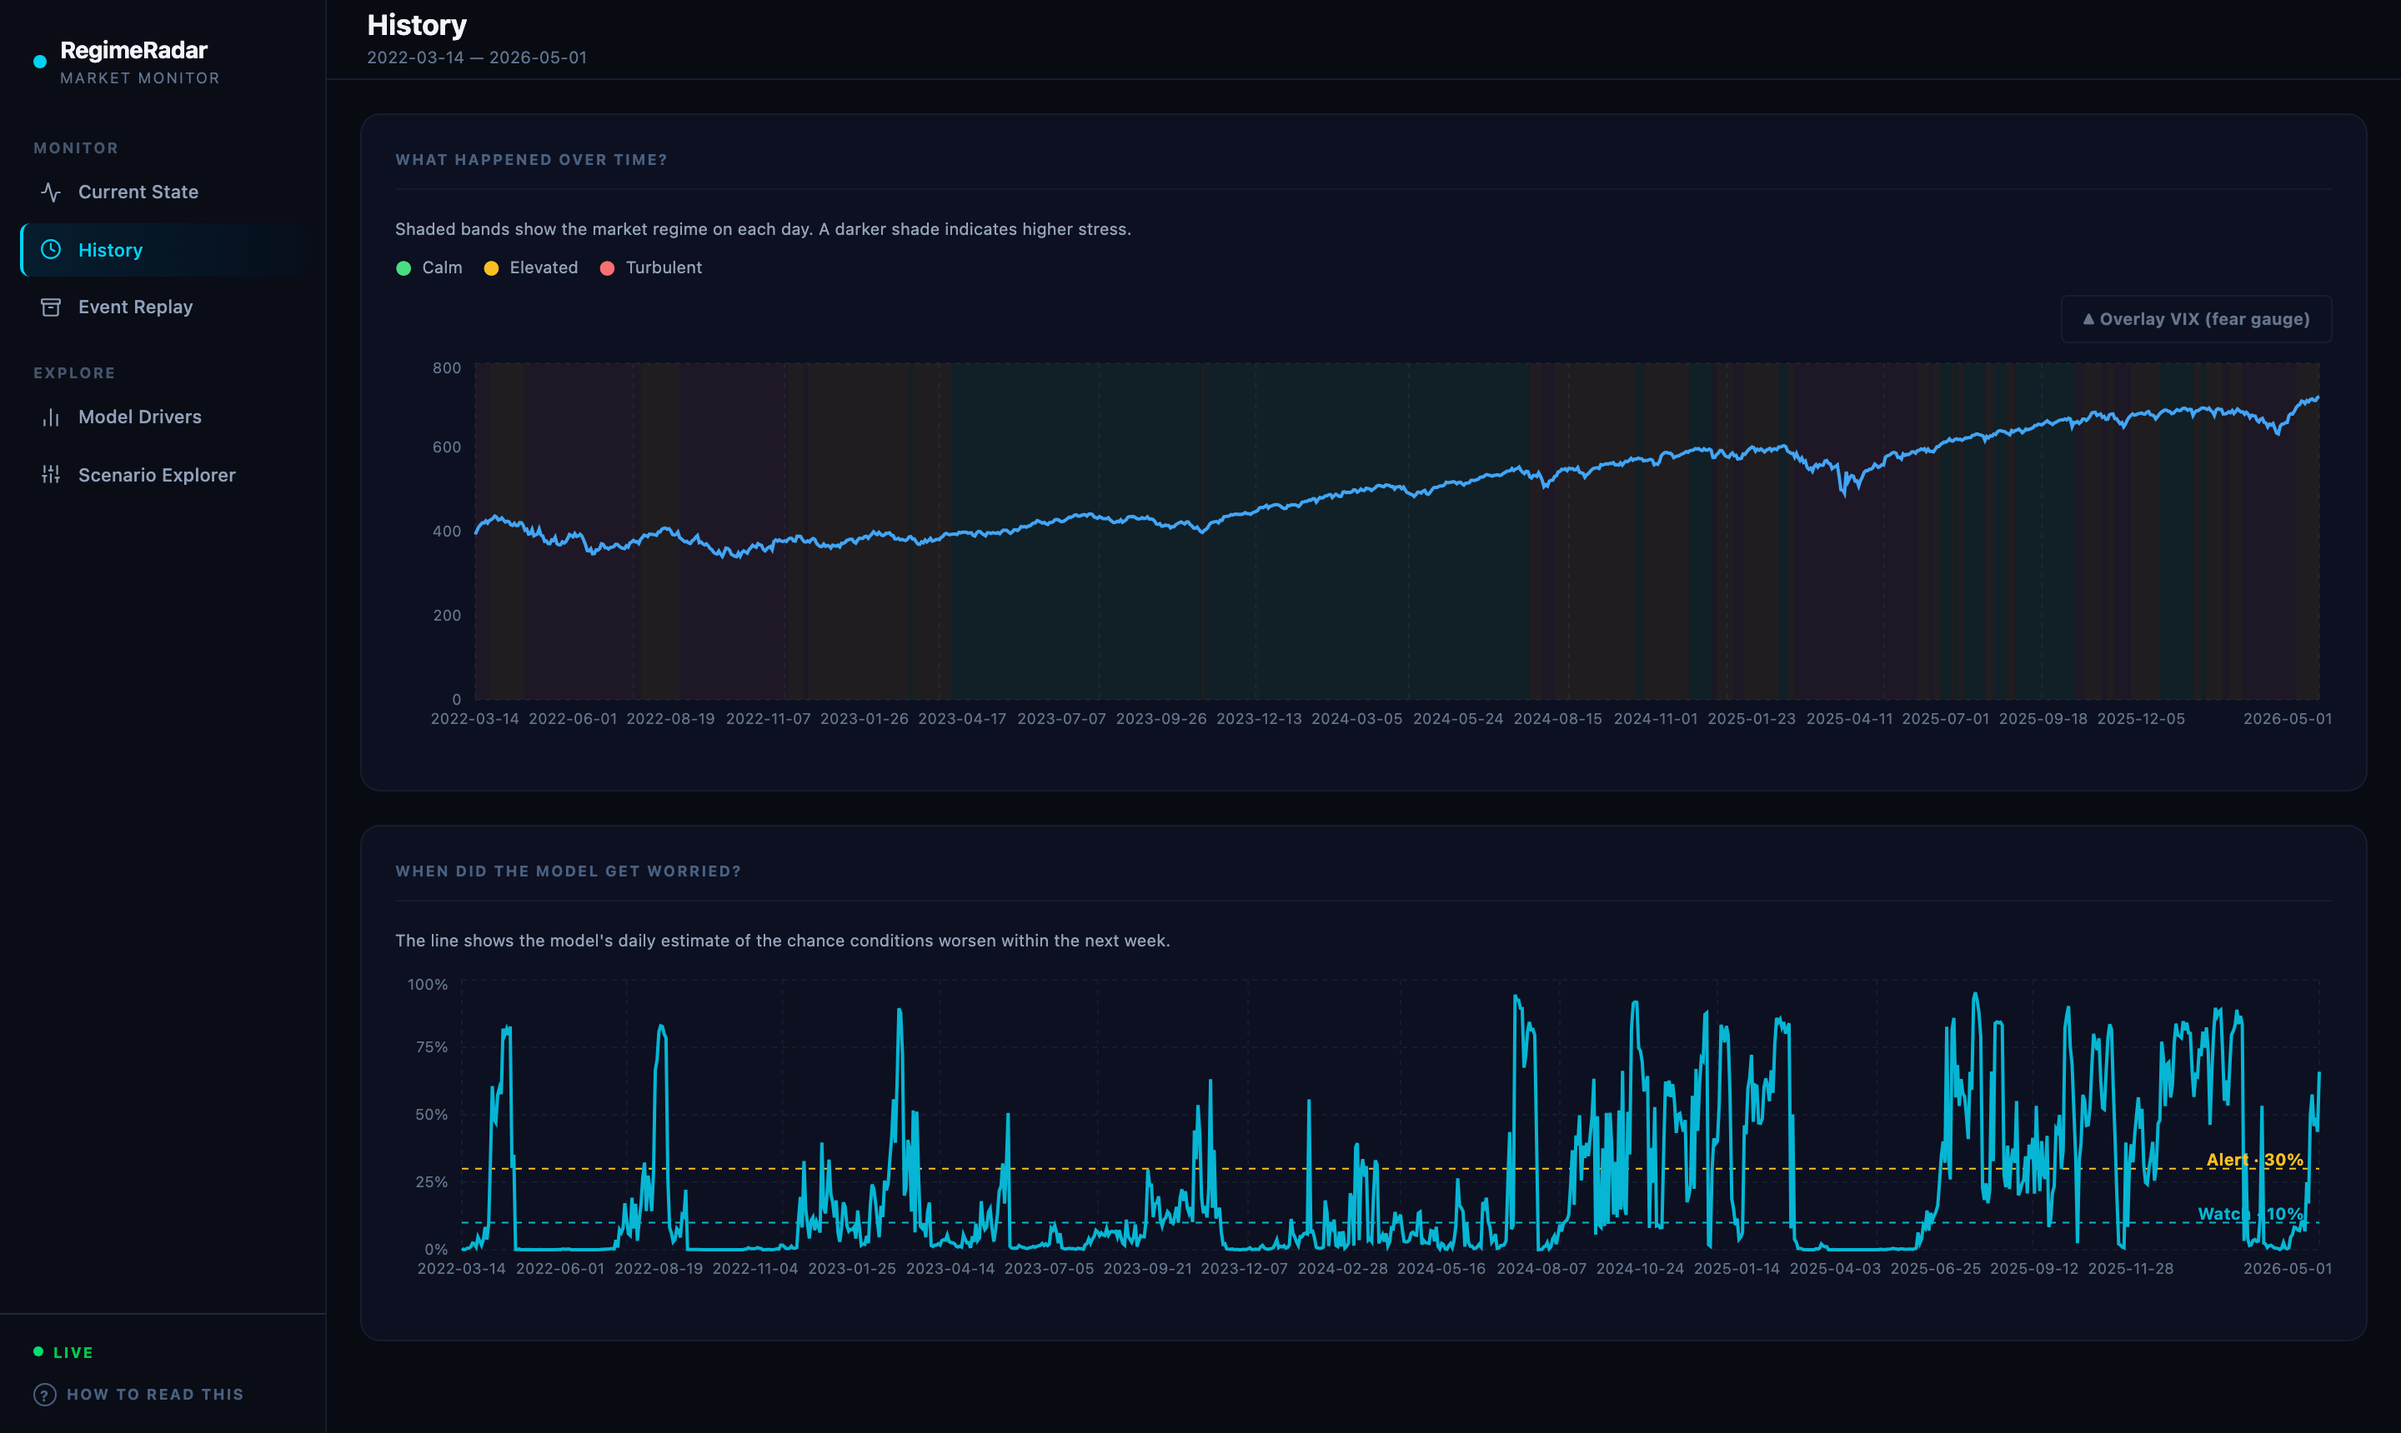
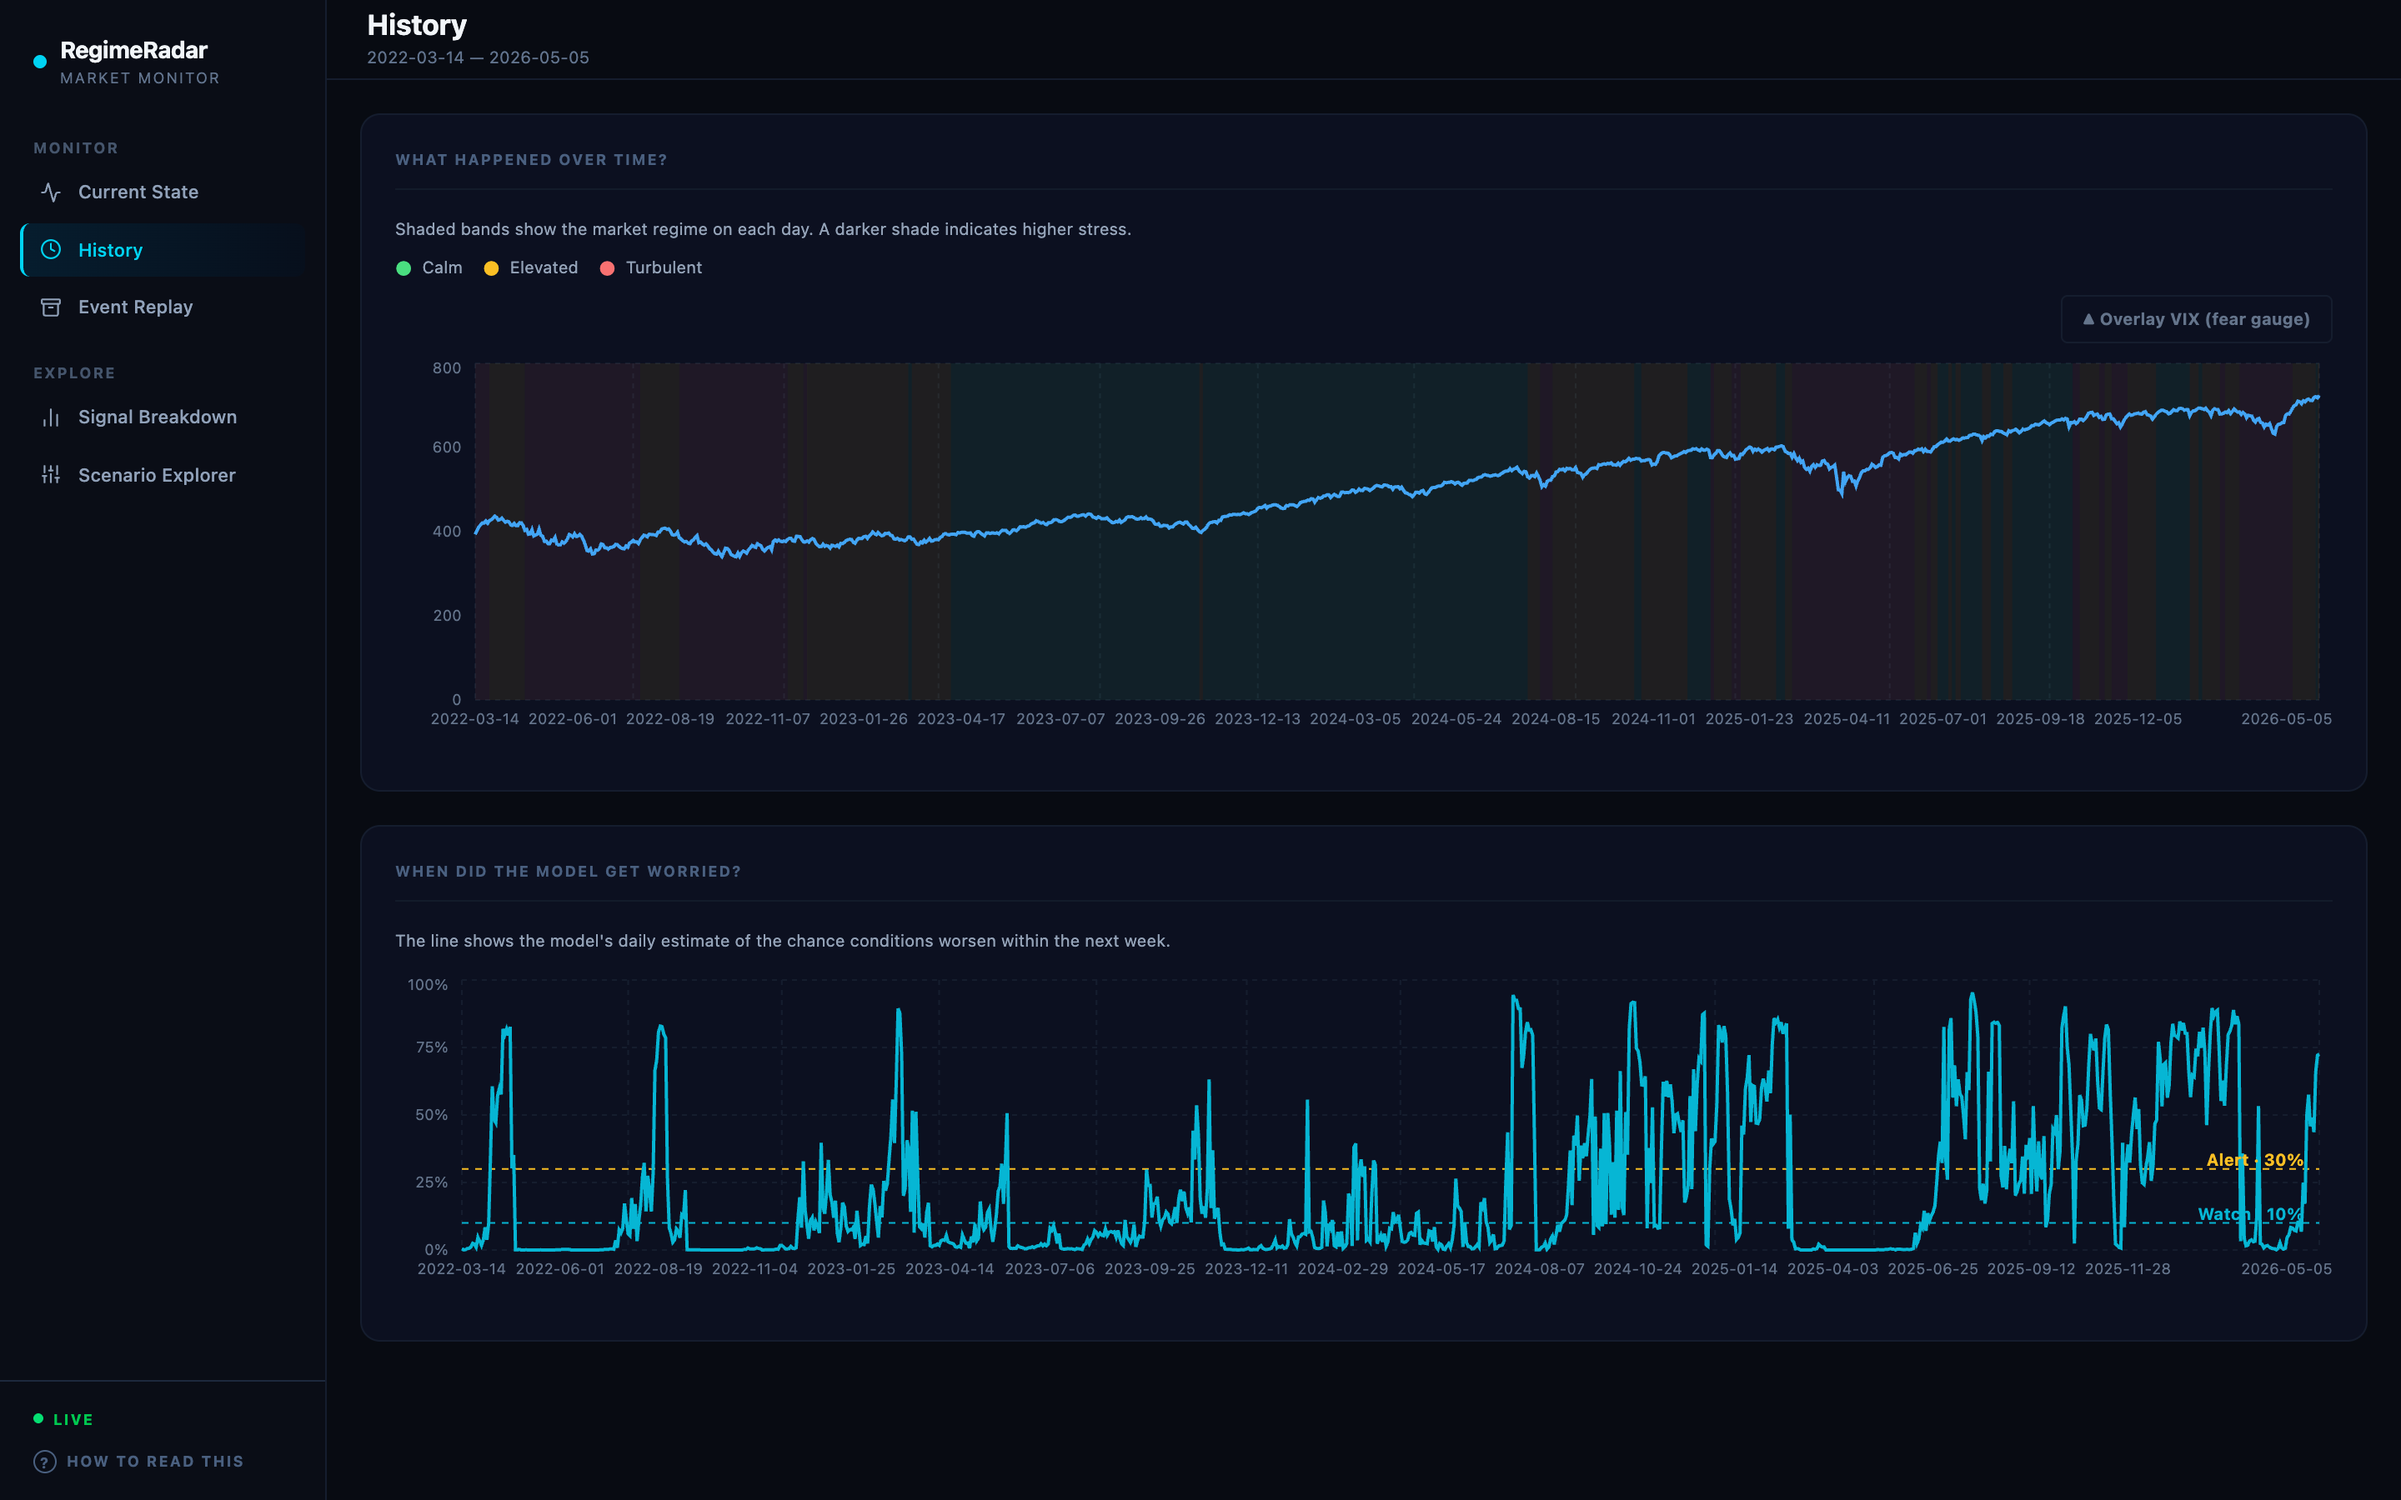
docs: refresh README and screenshots for Scenario Explorer driver cards + Signal Breakdown rename
- Rename 'Model Drivers' → 'Signal Breakdown' throughout README
- Update Scenario Explorer section: driver cards, RAISES/LOWERS RISK badges, empty state, changed-input strip
- Update product overview table and page descriptions
- Refresh all 5 screenshots at 2x resolution (1440×900)

diff --git a/README.md b/README.md
@@ -13,7 +13,7 @@ RegimeRadar ingests daily SPY, VIX, and FRED Economic Market Volatility data, en
 1. **Regime classifier** — labels current conditions as Calm / Elevated / Turbulent
 2. **Transition-risk model** — estimates the probability that conditions worsen within the next 5 trading days
 
-Results are served by a FastAPI backend and visualized in a React/TypeScript dashboard with five pages: Current State, History, Event Replay, Model Drivers, and Scenario Explorer.
+Results are served by a FastAPI backend and visualized in a React/TypeScript dashboard with five pages: Current State, History, Event Replay, Signal Breakdown, and Scenario Explorer.
 
 ---
 
@@ -43,8 +43,8 @@ Finnhub is optional and only affects the live price-card overlay on the Current 
 | **Current State** | Live regime, transition risk gauge, probability distribution across all three states, key risk drivers, 30-day mini chart |
 | **History** | Day-by-day SPY regime timeline with color-coded market-state bands and a daily transition risk chart; optional VIX overlay |
 | **Event Replay** | Walk the model through named historical events (2020 COVID crash, 2022 rate shock, etc.) |
-| **Model Drivers** | Narrative-first layout: plain-English case brief explaining today's reading, push/pull panel (today's top drivers vs. global importance), forward-looking risk conditions, and a collapsible reliability/threshold tradeoff table |
-| **Scenario Explorer** | Six named presets (Calm Recovery → Crisis Peak) plus manual sliders across 6 features. Each scenario shows a probability tripod (Calm / Elevated / Turbulent baseline vs. scenario), a verdict badge, and driver attribution |
+| **Signal Breakdown** | Narrative-first layout: plain-English case brief explaining today's reading, push/pull panel (today's top drivers vs. global importance), forward-looking risk conditions, and a collapsible reliability/threshold tradeoff table |
+| **Scenario Explorer** | Six named presets (Calm Recovery → Crisis Peak) plus manual sliders across 6 features. Each scenario shows a verdict badge, a probability tripod (Calm / Elevated / Turbulent baseline vs. scenario with animated deltas), and a driver-cards panel showing which inputs are raising or lowering risk — with contextual interpretation for each driver |
 
 ---
 
@@ -60,10 +60,10 @@ Finnhub is optional and only affects the live price-card overlay on the Current 
 *Event Replay — COVID-19 2020: warning lead time, peak transition risk, and alert-day count.*
 
 ![Scenario Explorer](docs/screenshots/scenario-explorer.png)
-*Scenario Explorer — Crisis Peak preset: "Turbulent" verdict badge, probability tripod showing 62% turbulent-dominant, and regime-history tags on the driver panel.*
+*Scenario Explorer — Crisis Peak preset: "Turbulent" verdict, probability tripod at 98% turbulent, and driver cards explaining what's raising risk (VIX level, recent high-stress days) with plain-English interpretation per signal.*
 
-![Model Drivers](docs/screenshots/model-drivers.png)
-*Model Drivers — narrative case brief, push/pull panel, global importance bars, and forward-looking risk conditions.*
+![Signal Breakdown](docs/screenshots/model-drivers.png)
+*Signal Breakdown — narrative case brief, push/pull panel (what's pushing risk higher vs. holding it in check), global importance bars, and forward-looking risk conditions.*
 
 ---
 
@@ -203,7 +203,7 @@ Threshold sensitivity (from OOF evaluation):
 | 0.20 | 9% | 5% | 23.6 days |
 | 0.30 | 0.7% | 0.3% | 21.2 days |
 
-The dashboard default displays the raw probability. The Model Drivers page shows the full threshold sweep.
+The dashboard default displays the raw probability. The Signal Breakdown page shows the full threshold sweep.
 
 ---
 
@@ -225,9 +225,10 @@ Each scenario runs against six slider inputs: `vix_level`, `vix_chg_5d`, `rv_20d
 The output shows:
 - **Verdict badge** (Calm → Mild stress → Elevated → High stress → Elevated + turbulent → Turbulent) with a plain-English sentence
 - **Probability tripod** — three tiles showing baseline vs. scenario probability for each regime class, with animated deltas
-- **Driver panel** — which features moved the needle, with `regime history` tags on the two lag features
+- **Driver cards** — contextual explanation of what's moving the scenario away from the current market. Cards are keyed by signal, not by overall direction: each card shows the feature's direction arrow, a `RAISES RISK` / `LOWERS RISK` badge, the baseline → scenario value shift, and a plain-English interpretation sentence. An optional `OFFSETS` card (dimmer background) captures the strongest opposing signal, separated by a "partial offset" divider. An empty state ("No strong driver signal yet") displays when the scenario is still close to current market conditions.
+- **Changed-input strip** — lightweight pills at the bottom listing every slider that was moved from its baseline value, with direction and magnitude
 
-The Crisis Peak preset is designed to show turbulent-dominant output. It sets `turbulent_count_30d_lag1=30` and `days_in_regime_lag1=14`, which the model requires to push turbulent probability above 50%. This reflects a key design property of the model: a single-day shock moves the XGBoost output toward elevated, not turbulent — turbulence requires accumulated persistence signals over multiple days.
+The Crisis Peak preset is designed to show turbulent-dominant output. It sets `turbulent_count_30d_lag1=30` and `days_in_regime_lag1=14`, which the model requires to push turbulent probability above 50%. This reflects a key design property of the model: a single-day shock moves the XGBoost output toward elevated, not turbulent — turbulence requires accumulated persistence signals over multiple days. The driver cards surface this directly: "stress has been persistent recently" reads differently from "fear gauge rising," and the interface makes that distinction visible.
 
 ---
 
